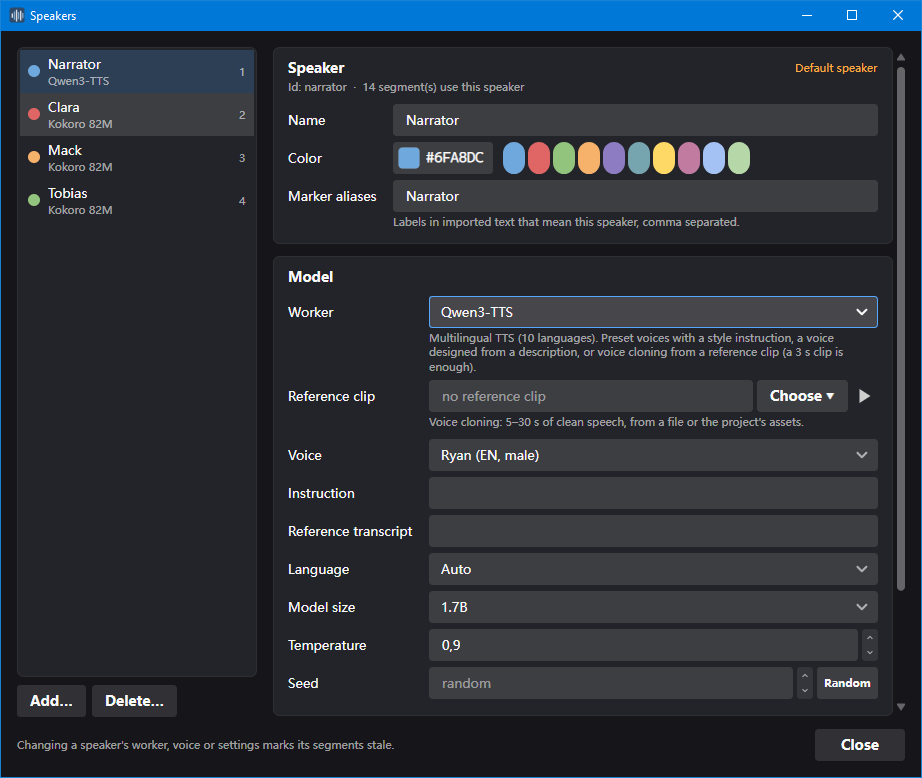
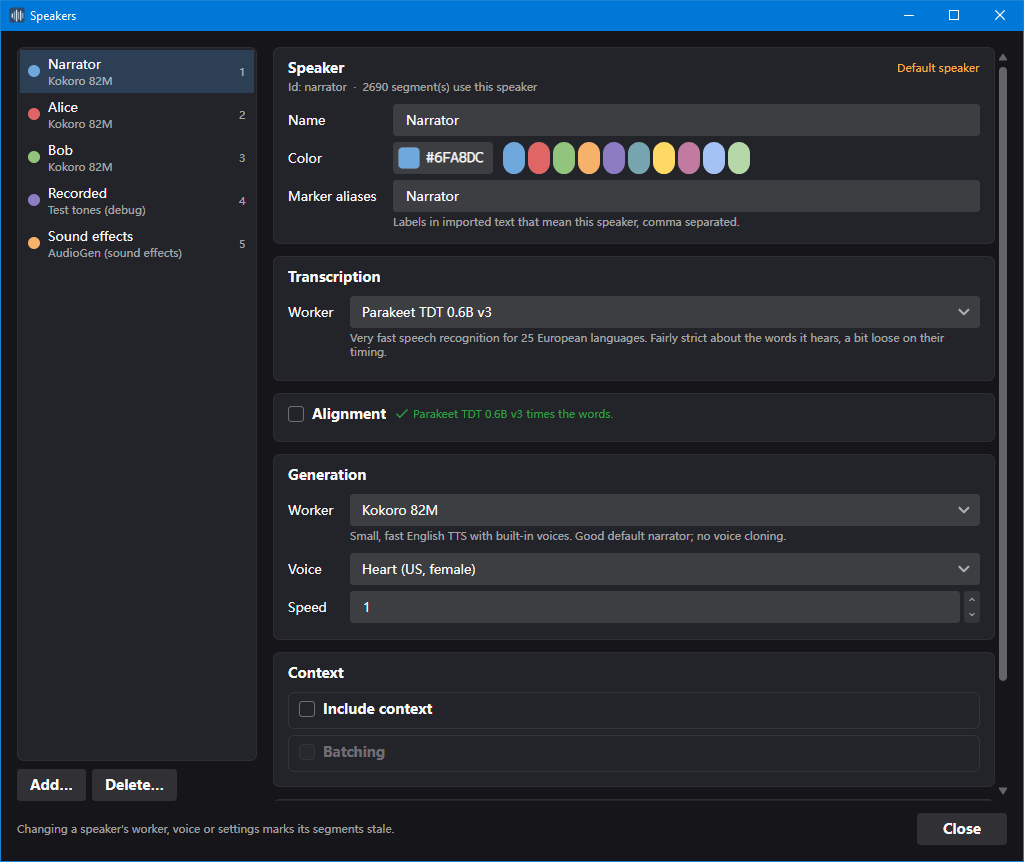
Screenshot update

diff --git a/README.md b/README.md
@@ -59,6 +59,14 @@ AI inference is done by workers, each running in its own process on one of these
 <td align="center">Speakers</td>
 <td align="center">Workers</td>
 </tr>
+<tr>
+<td width="50%"><img src="docs/images/screenshot_inspector.PNG" alt="Generation inspector"></td>
+<td width="50%"></td>
+</tr>
+<tr>
+<td align="center">Generation inspector</td>
+<td></td>
+</tr>
 </table>
 
 ## Getting started
